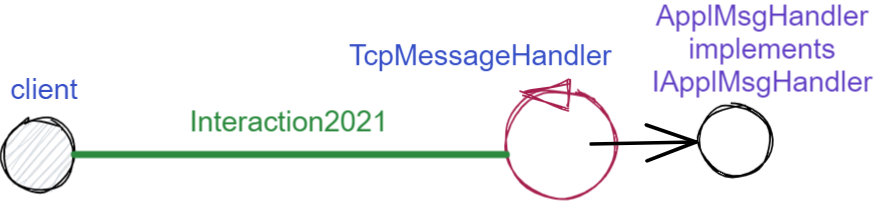
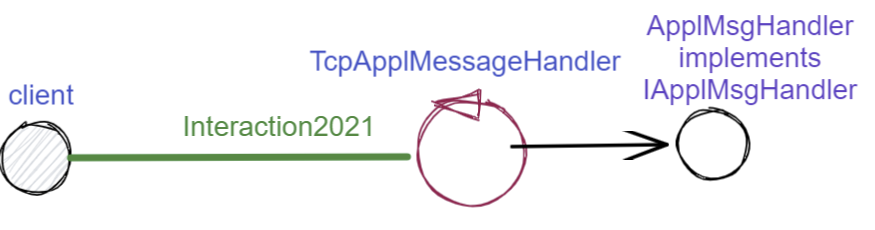
dispense

diff --git a/it.unibo.issLabStart/userDocs/iss22/source/RadarSystemSupporti.rst b/it.unibo.issLabStart/userDocs/iss22/source/RadarSystemSupporti.rst
@@ -109,8 +109,8 @@ Nel seguito, incapsuleremo il codice applicativo  entro oggetti che implementano
   public interface IApplMsgHandler {
     public String getName(); 
     public  void elaborate( String message, Interaction2021 conn ) ;	 
-    public void sendMsgToClient( String message, Interaction2021 conn  );
-    public void sendAnswerToClient( String message, Interaction2021 conn  );
+    public void sendMsgToClient(String message, Interaction2021 conn);
+    public void sendAnswerToClient(String message, Interaction2021 conn);
   }
 
 
@@ -118,7 +118,7 @@ Il costruttore del TCP server avrà quindi la seguente signature:
 
 .. code:: Java
 
-  public TcpServer(String name,int port, IApplMsgHandler userDefHandler) 
+  public TcpServer(String name,int port,IApplMsgHandler userDefHandler) 
 
 cioè riceverà un oggetto di livello applicativo (``userDefHandler``) capace di:
 
@@ -148,17 +148,17 @@ dei messaggi in ingresso.
     
     public Interaction2021 getName(  ) {  return name;  }
     @Override
-    public void sendMsgToClient( String message, Interaction2021 conn  ) {
+    public void sendMsgToClient( String message, Interaction2021 conn) {
       try {  
         conn.forward( message );
       }catch(Exception e){ ... }
     } 
     @Override
-    public void sendAnswerToClient( String reply, Interaction2021 conn   ) {
+    public void sendAnswerToClient( String reply, Interaction2021 conn) {
         sendMsgToClient(reply, conn);
     }
     
-    public abstract void elaborate( String message, Interaction2021 conn ) ;
+    public abstract void elaborate(String message,Interaction2021 conn) ;
    }
 
 .. image:: ./_static/img/Architectures/ApplMessageHandler.png 
@@ -208,7 +208,7 @@ e il metodo ``run`` che ne specifica il funzionamento.
       stopped = true;
       serversock.close();
     }catch (IOException e) {
-      Colors.outerr(getName() + " | ERROR: " + e.getMessage());	 
+      Colors.outerr(getName() + " | ERROR: " + e.getMessage());	
     }
   }
 
@@ -267,7 +267,8 @@ nel costruttore.
 .. code:: Java
 
   public class TcpApplMessageHandler extends Thread{
-  public TcpApplMessageHandler(IApplMsgHandler handler,Interaction2021 conn){ 
+  public TcpApplMessageHandler(
+        IApplMsgHandler handler,Interaction2021 conn){ 
     @Override
     public void run() {
       ...
@@ -312,7 +313,7 @@ I metodi che la JUnit esegue prima e dopo ogni test attivano e disattivano il TC
 
   @Before
   public void up() {
-		server = new TcpServer("tcpServer",testPort, new NaiveHandler("naiveH") );
+    server = new TcpServer("tcpServer",testPort, new NaiveHandler("naiveH") );
     server.activate();		
   }
 
@@ -406,10 +407,10 @@ Test per l'interazione client-server
 
 .. code:: Java
 
-	@Test 
-	public void testSingleClient() {
+  @Test 
+  public void testSingleClient() {
     new ClientForTest().doWorkWithServerOn( "client1",10  );		
-	}
+  }
  
 	
 +++++++++++++++++++++++++++++++++++++++++++++++++++++++++
@@ -418,8 +419,8 @@ Test con più clienti
 
 .. code:: Java
 
-	@Test 
-	public void testManyClients() {
+  @Test 
+  public void testManyClients() {
     new ClientForTest().doWorkWithServerOn("client1",10  );
     new ClientForTest().doWorkWithServerOn("client2",1 );
     new ClientForTest().doWorkWithServerOn("client3",1 );
@@ -497,7 +498,7 @@ il parametro ``entry`` denoterà un :blue:`Uniform Resource Identifier (URI)`
 
 - **setConnection**: stabilire una connessione con un server remoto dato un protocollo;
 - **sendCommandOnConnection**: inviare un comando al server;
-- **sendCommandOnConnection**: inviare una richiesta al server e attendere la risposta;
+- **sendRequestOnConnection**: inviare una richiesta al server e attendere la risposta;
 
 Il metodo ``setConnection`` effettua la connessione al server remoto in funzione del tipo di
 protocollo specificato:
@@ -517,7 +518,7 @@ protocollo specificato:
 .. che definiremo più avanti e che restituisce un oggetto di tipo ``Interaction2021`` 
 .. come nel caso di TCP/UDP.
 
-Il caso di Proxy per altri protocolli sarà affrontato in :doc:`VersoUnFramework`.
+Il caso di Proxy per protocolli diversi da TCP sarà affrontato in :doc:`VersoUnFramework`.
 
 Con riferimento ai :ref:`TipiInterazione` introdotti nella fase di analisi,
 il *proxy tipo-client* definisce anche un metodo per inviare *dispatch* e un metodo per inviare

diff --git a/it.unibo.issLabStart/userDocs/iss22/source/Enablers.rst b/it.unibo.issLabStart/userDocs/iss22/source/Enablers.rst
@@ -103,7 +103,7 @@ Notiamo che:
 
 - nel caso ``protocol==null``, non viene creato alcun supporto. 
   Questo caso sarà applicato più avanti, nella sezione  :doc:`ContestiContenitori`.
-- si prevede anche la possibilità di utilizzare altri protocolli
+- si prevede anche la possibilità di utilizzare altri protocolli.
 
  
 .. _IApplIntepreterNoCtx:
@@ -121,7 +121,8 @@ L'handler deve quindi fare fronte a due compiti:
 #. interpretare un messagio e tradurlo in un comando o richiesta al dispositivo Sonar
 #. inviare al mittente la risposta, in caso il messaggio sia una richiesta
 
-Facendo riferimento al single responsibility principle (SRP), conviene delegare il primo compito ad
+Facendo riferimento al *single responsibility principle* (SRP, si veda 
+`SOLID <https://it.wikipedia.org/wiki/SOLID>`_), conviene delegare il primo compito ad
 un componente che non 'sappia nulla' della *dimensione interazione* e che si occupi solo della
 interpretazione del messaggio. Introduciamo una interfaccia per componenti di questo tipo: 
 
@@ -155,7 +156,7 @@ una  `grammatica regolare`_ che può essere definita mediante le seguenti regole
 
 Concettualmente, dobbiamo fare ora riferimento al `pattern interpreter`_ .
 Tuttavia, la semplicità di questo linguaggio non richiede al momento approfondimenti di tecniche
-per il riconoscimento e la esecuzione di frasi: basteranno dei semplici ``if``,
+per il riconoscimento e la esecuzione di frasi: basteranno dei semplici test su stringhe,
 come vederemo nelle sezioni successive.
 
 Occorre però segnalare un punto importante: stiamo introducendo l'idea che si possa interagire 
@@ -183,7 +184,8 @@ invocando il dispositivo rappresentato da un POJO di interfaccia :ref:`ILed<ILed
     public LedApplIntepreter(  ILed led) { this.led = led; }
 
     public String elaborate( String message ) {
-      //Analizza message e invoca il led, restituendo un risultato o una risposta
+      //Analizza message e invoca il led,
+      //restituendo un risultato o una risposta
       if( message.equals("getState") ) return ""+led.getState() ;
       else if( message.equals("on")) led.turnOn();
       else if( message.equals("off") ) led.turnOff();	

diff --git a/it.unibo.issLabStart/userDocs/iss22/source/VersoUnFramework.rst b/it.unibo.issLabStart/userDocs/iss22/source/VersoUnFramework.rst
@@ -12,7 +12,7 @@
 
 
 ==================================================
-Verso un framework
+Oltre TCP
 ==================================================
 
 I primi SPRINT dello sviluppo hanno seguito un processo bottom-up, che ha fatto riferimento
